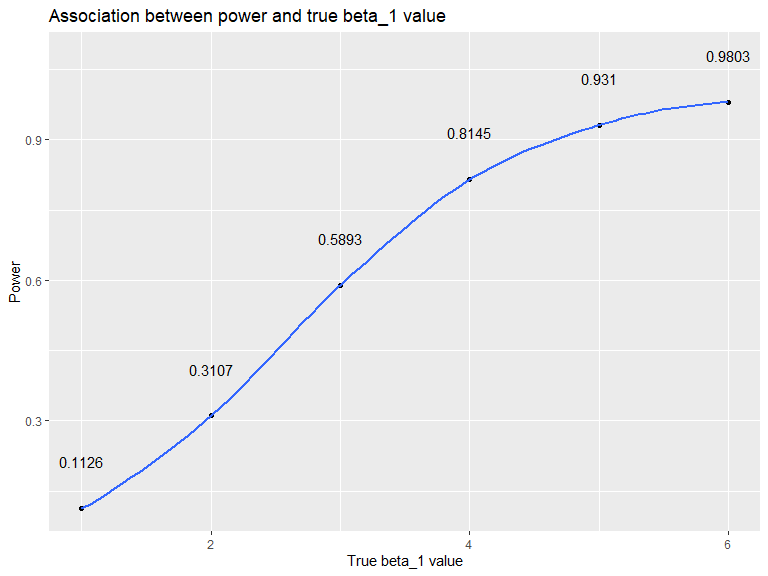
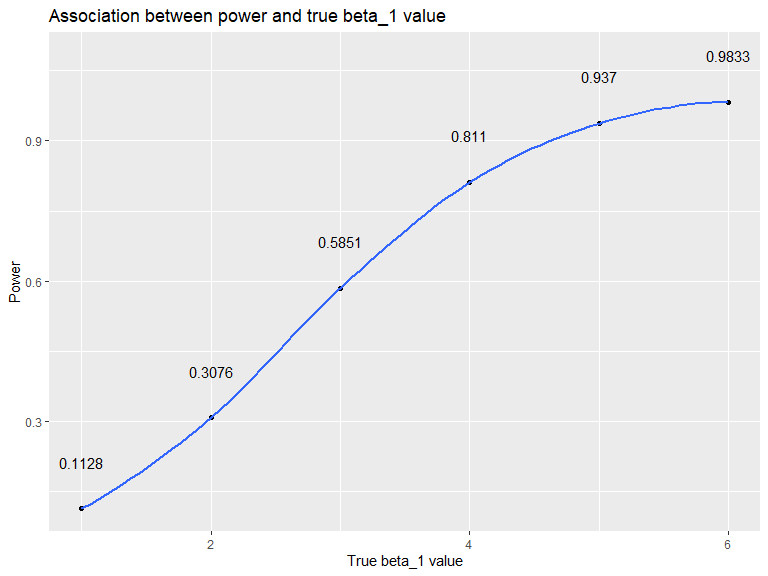
add comments

diff --git a/p8105_hw5_yl4350.md b/p8105_hw5_yl4350.md
@@ -70,235 +70,24 @@ for (i in 1:20) {
 }
 
 data = map(path, read_csv)
-```
 
-    ## Parsed with column specification:
-    ## cols(
-    ##   week_1 = col_double(),
-    ##   week_2 = col_double(),
-    ##   week_3 = col_double(),
-    ##   week_4 = col_double(),
-    ##   week_5 = col_double(),
-    ##   week_6 = col_double(),
-    ##   week_7 = col_double(),
-    ##   week_8 = col_double()
-    ## )
-    ## Parsed with column specification:
-    ## cols(
-    ##   week_1 = col_double(),
-    ##   week_2 = col_double(),
-    ##   week_3 = col_double(),
-    ##   week_4 = col_double(),
-    ##   week_5 = col_double(),
-    ##   week_6 = col_double(),
-    ##   week_7 = col_double(),
-    ##   week_8 = col_double()
-    ## )
-    ## Parsed with column specification:
-    ## cols(
-    ##   week_1 = col_double(),
-    ##   week_2 = col_double(),
-    ##   week_3 = col_double(),
-    ##   week_4 = col_double(),
-    ##   week_5 = col_double(),
-    ##   week_6 = col_double(),
-    ##   week_7 = col_double(),
-    ##   week_8 = col_double()
-    ## )
-    ## Parsed with column specification:
-    ## cols(
-    ##   week_1 = col_double(),
-    ##   week_2 = col_double(),
-    ##   week_3 = col_double(),
-    ##   week_4 = col_double(),
-    ##   week_5 = col_double(),
-    ##   week_6 = col_double(),
-    ##   week_7 = col_double(),
-    ##   week_8 = col_double()
-    ## )
-    ## Parsed with column specification:
-    ## cols(
-    ##   week_1 = col_double(),
-    ##   week_2 = col_double(),
-    ##   week_3 = col_double(),
-    ##   week_4 = col_double(),
-    ##   week_5 = col_double(),
-    ##   week_6 = col_double(),
-    ##   week_7 = col_double(),
-    ##   week_8 = col_double()
-    ## )
-    ## Parsed with column specification:
-    ## cols(
-    ##   week_1 = col_double(),
-    ##   week_2 = col_double(),
-    ##   week_3 = col_double(),
-    ##   week_4 = col_double(),
-    ##   week_5 = col_double(),
-    ##   week_6 = col_double(),
-    ##   week_7 = col_double(),
-    ##   week_8 = col_double()
-    ## )
-    ## Parsed with column specification:
-    ## cols(
-    ##   week_1 = col_double(),
-    ##   week_2 = col_double(),
-    ##   week_3 = col_double(),
-    ##   week_4 = col_double(),
-    ##   week_5 = col_double(),
-    ##   week_6 = col_double(),
-    ##   week_7 = col_double(),
-    ##   week_8 = col_double()
-    ## )
-    ## Parsed with column specification:
-    ## cols(
-    ##   week_1 = col_double(),
-    ##   week_2 = col_double(),
-    ##   week_3 = col_double(),
-    ##   week_4 = col_double(),
-    ##   week_5 = col_double(),
-    ##   week_6 = col_double(),
-    ##   week_7 = col_double(),
-    ##   week_8 = col_double()
-    ## )
-    ## Parsed with column specification:
-    ## cols(
-    ##   week_1 = col_double(),
-    ##   week_2 = col_double(),
-    ##   week_3 = col_double(),
-    ##   week_4 = col_double(),
-    ##   week_5 = col_double(),
-    ##   week_6 = col_double(),
-    ##   week_7 = col_double(),
-    ##   week_8 = col_double()
-    ## )
-    ## Parsed with column specification:
-    ## cols(
-    ##   week_1 = col_double(),
-    ##   week_2 = col_double(),
-    ##   week_3 = col_double(),
-    ##   week_4 = col_double(),
-    ##   week_5 = col_double(),
-    ##   week_6 = col_double(),
-    ##   week_7 = col_double(),
-    ##   week_8 = col_double()
-    ## )
-    ## Parsed with column specification:
-    ## cols(
-    ##   week_1 = col_double(),
-    ##   week_2 = col_double(),
-    ##   week_3 = col_double(),
-    ##   week_4 = col_double(),
-    ##   week_5 = col_double(),
-    ##   week_6 = col_double(),
-    ##   week_7 = col_double(),
-    ##   week_8 = col_double()
-    ## )
-    ## Parsed with column specification:
-    ## cols(
-    ##   week_1 = col_double(),
-    ##   week_2 = col_double(),
-    ##   week_3 = col_double(),
-    ##   week_4 = col_double(),
-    ##   week_5 = col_double(),
-    ##   week_6 = col_double(),
-    ##   week_7 = col_double(),
-    ##   week_8 = col_double()
-    ## )
-    ## Parsed with column specification:
-    ## cols(
-    ##   week_1 = col_double(),
-    ##   week_2 = col_double(),
-    ##   week_3 = col_double(),
-    ##   week_4 = col_double(),
-    ##   week_5 = col_double(),
-    ##   week_6 = col_double(),
-    ##   week_7 = col_double(),
-    ##   week_8 = col_double()
-    ## )
-    ## Parsed with column specification:
-    ## cols(
-    ##   week_1 = col_double(),
-    ##   week_2 = col_double(),
-    ##   week_3 = col_double(),
-    ##   week_4 = col_double(),
-    ##   week_5 = col_double(),
-    ##   week_6 = col_double(),
-    ##   week_7 = col_double(),
-    ##   week_8 = col_double()
-    ## )
-    ## Parsed with column specification:
-    ## cols(
-    ##   week_1 = col_double(),
-    ##   week_2 = col_double(),
-    ##   week_3 = col_double(),
-    ##   week_4 = col_double(),
-    ##   week_5 = col_double(),
-    ##   week_6 = col_double(),
-    ##   week_7 = col_double(),
-    ##   week_8 = col_double()
-    ## )
-    ## Parsed with column specification:
-    ## cols(
-    ##   week_1 = col_double(),
-    ##   week_2 = col_double(),
-    ##   week_3 = col_double(),
-    ##   week_4 = col_double(),
-    ##   week_5 = col_double(),
-    ##   week_6 = col_double(),
-    ##   week_7 = col_double(),
-    ##   week_8 = col_double()
-    ## )
-    ## Parsed with column specification:
-    ## cols(
-    ##   week_1 = col_double(),
-    ##   week_2 = col_double(),
-    ##   week_3 = col_double(),
-    ##   week_4 = col_double(),
-    ##   week_5 = col_double(),
-    ##   week_6 = col_double(),
-    ##   week_7 = col_double(),
-    ##   week_8 = col_double()
-    ## )
-    ## Parsed with column specification:
-    ## cols(
-    ##   week_1 = col_double(),
-    ##   week_2 = col_double(),
-    ##   week_3 = col_double(),
-    ##   week_4 = col_double(),
-    ##   week_5 = col_double(),
-    ##   week_6 = col_double(),
-    ##   week_7 = col_double(),
-    ##   week_8 = col_double()
-    ## )
-    ## Parsed with column specification:
-    ## cols(
-    ##   week_1 = col_double(),
-    ##   week_2 = col_double(),
-    ##   week_3 = col_double(),
-    ##   week_4 = col_double(),
-    ##   week_5 = col_double(),
-    ##   week_6 = col_double(),
-    ##   week_7 = col_double(),
-    ##   week_8 = col_double()
-    ## )
-    ## Parsed with column specification:
-    ## cols(
-    ##   week_1 = col_double(),
-    ##   week_2 = col_double(),
-    ##   week_3 = col_double(),
-    ##   week_4 = col_double(),
-    ##   week_5 = col_double(),
-    ##   week_6 = col_double(),
-    ##   week_7 = col_double(),
-    ##   week_8 = col_double()
-    ## )
-
-``` r
 df = 
   filename %>% 
   mutate(data = data)%>% 
   unnest()
+
+head(df)
 ```
+
+    ## # A tibble: 6 x 9
+    ##   file_name  week_1 week_2 week_3 week_4 week_5 week_6 week_7 week_8
+    ##   <chr>       <dbl>  <dbl>  <dbl>  <dbl>  <dbl>  <dbl>  <dbl>  <dbl>
+    ## 1 con_01.csv   0.2  -1.31    0.66   1.96   0.23   1.09   0.05   1.94
+    ## 2 con_02.csv   1.13 -0.88    1.07   0.17  -0.83  -0.31   1.58   0.44
+    ## 3 con_03.csv   1.77  3.11    2.22   3.26   3.31   0.89   1.88   1.01
+    ## 4 con_04.csv   1.04  3.66    1.22   2.33   1.47   2.7    1.87   1.66
+    ## 5 con_05.csv   0.47 -0.580  -0.09  -1.37  -0.32  -2.17   0.45   0.48
+    ## 6 con_06.csv   2.37  2.5     1.59  -0.16   2.08   3.07   0.78   2.35
 
   - Tidy the result; manipulate file names to include control arm and
     subject ID, make sure weekly observations are “tidy”, and do any
@@ -325,7 +114,19 @@ df_clean =
     subject_id = as.factor(subject_id),
     week = as.factor(week)
   )
+
+head(df_clean)
 ```
+
+    ## # A tibble: 6 x 4
+    ##   arm     subject_id week  value
+    ##   <fct>   <fct>      <fct> <dbl>
+    ## 1 control 01         1      0.2 
+    ## 2 control 01         2     -1.31
+    ## 3 control 01         3      0.66
+    ## 4 control 01         4      1.96
+    ## 5 control 01         5      0.23
+    ## 6 control 01         6      1.09
 
   - Make a spaghetti plot showing observations on each subject over
     time, and comment on differences between groups
@@ -353,6 +154,7 @@ weeks.
 # Problem 3
 
 ``` r
+set.seed(1)
 sim_regression = function(n = 30, beta0 = 2, beta1) {
   
   sim_data = tibble(
@@ -368,9 +170,22 @@ sim_regression = function(n = 30, beta0 = 2, beta1) {
 
 results = rerun(10000, sim_regression(30, 2, 0)) %>% 
   bind_rows()
+
+head(results)
 ```
 
+    ## # A tibble: 6 x 2
+    ##   estimate p.value
+    ##      <dbl>   <dbl>
+    ## 1  0.296     0.798
+    ## 2  0.00648   0.996
+    ## 3 -2.16      0.155
+    ## 4 -0.454     0.718
+    ## 5 -0.514     0.730
+    ## 6  1.71      0.243
+
 ``` r
+set.seed(1)
 output = vector("list", length = 6)
 
 for (i in c(1,2,3,4,5,6)) {
@@ -422,9 +237,7 @@ can see that power increases with effect size increasing.
 ``` r
 data_mean = sim_results %>% 
   group_by(beta_1) %>% 
-  summarise(
-    mean = round(mean(estimate),3)
-  )
+  summarise(mean = round(mean(estimate),3))
 
 ggplot(data_mean, aes(x = beta_1, y = mean)) +
   geom_point() +
@@ -445,9 +258,7 @@ ggplot(data_mean, aes(x = beta_1, y = mean)) +
 data_mean_reject = sim_results %>% 
   filter(result == "reject") %>% 
   group_by(beta_1) %>% 
-  summarise(
-    mean = round(mean(estimate),3)
-  )
+  summarise(mean = round(mean(estimate),3))
 
 ggplot(data_mean_reject, aes(x = beta_1, y = mean)) +
   geom_point() +
@@ -463,3 +274,13 @@ ggplot(data_mean_reject, aes(x = beta_1, y = mean)) +
     ## `geom_smooth()` using method = 'loess' and formula 'y ~ x'
 
 <img src="p8105_hw5_yl4350_files/figure-gfm/unnamed-chunk-9-1.png" width="90%" />
+
+The sample average of \(\widehat {\beta_1}\) across tests for which the
+null is rejected does not always approximately equal to the true value
+of $ \_1$. Because when effect size is small, the proportion of
+rejection is small, so the power is small. The difference between sample
+average of \(\widehat {\beta_1}\) and the true value of $ \_1$ is large.
+When effect size is large, the proportion of rejection is large, so the
+power is large. The difference between sample average of
+\(\widehat {\beta_1}\) and the true value of $ \_1$ is small, which
+means they are approximately equal under this condition.
